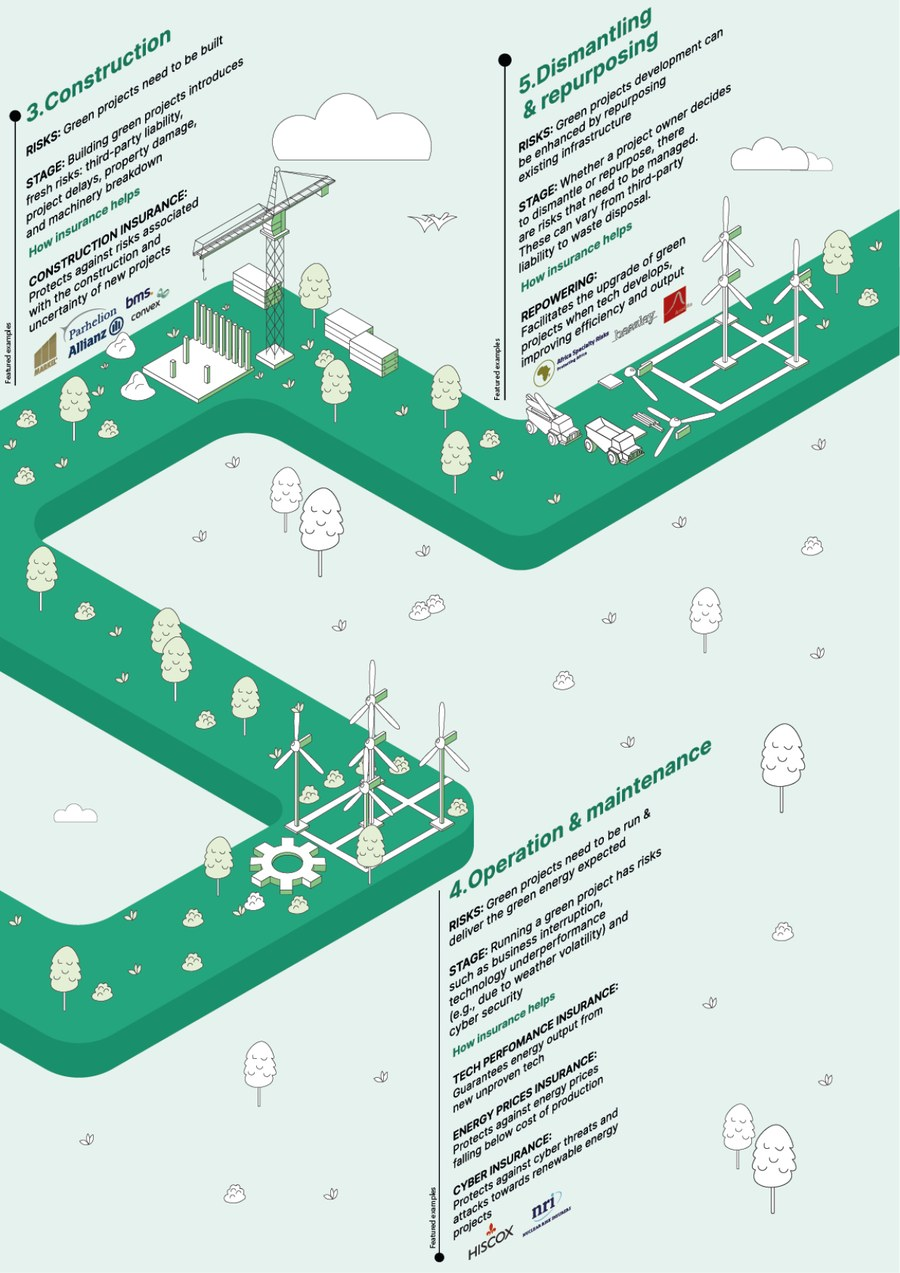
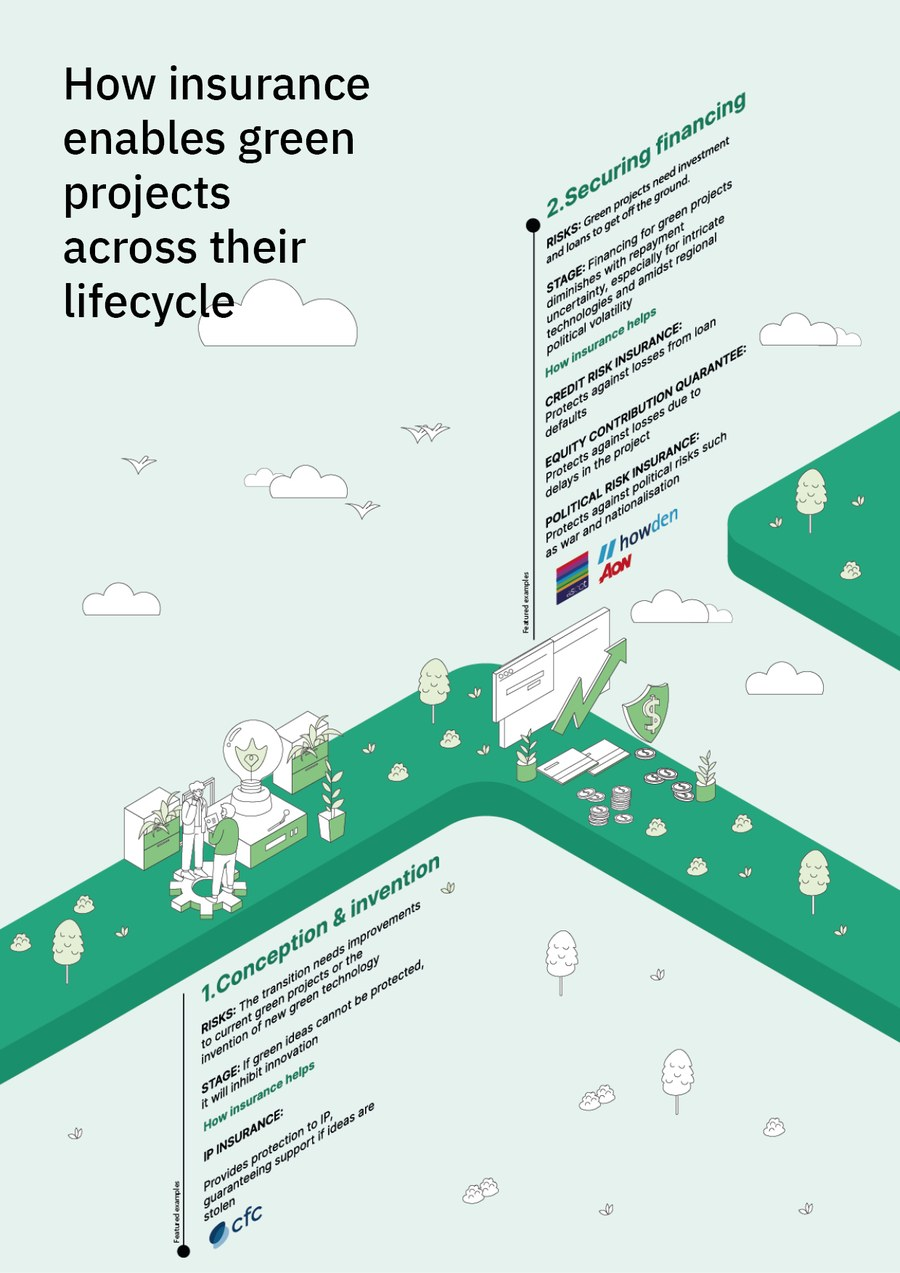
LMG: drop grey photo mockups entirely; use clean flat isometric spread + flat report pages

diff --git a/work-oxbow.html b/work-oxbow.html
@@ -95,7 +95,7 @@
   <section class="section-pad cs-chapter">
     <div class="cs-sec reveal"><h3>The illustration</h3><h4>An isometric world for green projects.</h4></div>
     <div class="ch-intro reveal"><p>The chosen route built a custom isometric world: green projects shown across their full lifecycle, from conception and financing through construction, operation and repurposing, so a reader sees the idea before reading a word of it.</p></div>
-    <div class="ox-print reveal"><img loading="lazy" src="images/oxbow/print-iso.jpg" alt="The isometric lifecycle across a printed centre spread"/></div>
+    <div class="ox-print reveal"><img loading="lazy" src="images/oxbow/iso-spread.jpg" alt="The full isometric lifecycle, conception through repurposing"/></div>
     <div class="ox-cap">The lifecycle, drawn as one isometric world, across the centre spread.</div>
   </section>
 
@@ -106,14 +106,12 @@
       <figure><img loading="lazy" src="images/oxbow/sys-table.jpg" alt="Risk, impact and insurance table from the report"/></figure>
       <figure><img loading="lazy" src="images/oxbow/sys-param.jpg" alt="Parametric insurance spotlight spread"/></figure>
     </div>
-    <div class="ox-print reveal"><img loading="lazy" src="images/oxbow/print-spread.jpg" alt="Operation and maintenance spread in print"/></div>
     <div class="ox-cap">Tables, spotlights and editorial spreads, held by one grid and palette.</div>
   </section>
 
   <section class="section-pad cs-chapter">
-    <div class="cs-sec reveal"><h3>In print</h3><h4>The report, in the hand.</h4></div>
-    <div class="ch-intro reveal"><p>Printed, it holds as a single object, from the parametric spotlight to the case studies and the insurer line-up at the back.</p></div>
-    <div class="ox-print reveal"><img loading="lazy" src="images/oxbow/print-range.jpg" alt="Case-study spread and insurer line-up in print"/></div>
+    <div class="cs-sec reveal"><h3>The spreads</h3><h4>Page by page.</h4></div>
+    <div class="ch-intro reveal"><p>The same grid, palette and illustration language carry from the cover to the case studies and the insurer line-up at the back.</p></div>
     <div class="ox-grid reveal">
       <img loading="lazy" src="images/oxbow/r1.jpg" alt="OxBow report spread"/>
       <img loading="lazy" src="images/oxbow/r2.jpg" alt="OxBow report spread"/>